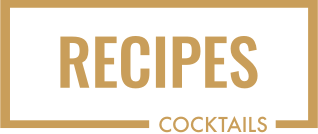
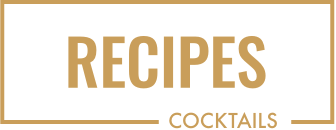
Polish forms design

Changed region(s): [[0.1698, 0.2462, 0.8208, 0.7077], [0.0, 0.0, 1.0, 1.0]]

diff --git a/app/assets/stylesheets/components/_form.scss b/app/assets/stylesheets/components/_form.scss
@@ -20,3 +20,23 @@
 .control-label {
   font-weight: 300;
 }
+
+
+.form-control {
+  border: 1px solid #4A4A4A;
+  background-color: #131313;
+  padding: 20px;
+  border-radius: 5px;
+  transition: all 0.8s ease;
+  color: #9B9B9B;
+  &:hover, &:active, &:focus {
+    border: 1px solid #CA9F54;
+    color: white;
+    box-shadow: none;
+  }
+}
+
+.control-label {
+  margin-bottom: 12px;
+}
+

diff --git a/app/assets/stylesheets/layout/_navbar.scss b/app/assets/stylesheets/layout/_navbar.scss
@@ -42,9 +42,9 @@
 .navbar-wagon-link {
   color: #C99E5A;
   font-size: 14px;
+  transition: all 0.8s ease;
   &:hover {
-  color: #C99E5A;
-  opacity: 0.8;
+  color: #B08644;
   text-decoration: none;
   }
 }
@@ -130,3 +130,5 @@
   border-left: 1px solid #E6E6E6;
   border-top: 1px solid #E6E6E6;
 }
+
+

diff --git a/app/assets/stylesheets/components/_button.scss b/app/assets/stylesheets/components/_button.scss
@@ -16,8 +16,8 @@
   background-color: #C99E5A;
   border-radius: 100px;
   border: 1px solid #C99E5A;
-  transition: all 0.8 ease;
   margin-top: 30px;
+  transition: all 0.8 ease;
   &:hover {
     background-color: #B08644;
     border: 1px solid #B08644;

diff --git a/app/assets/stylesheets/components/_banner.scss b/app/assets/stylesheets/components/_banner.scss
@@ -2,7 +2,6 @@
   color: white;
   text-align: center;
   height: 92vh;
-  /* if you have a 70px navbar => height: calc(100vh - 70px); */
   background-size: cover !important;
   display: flex;
   align-items: center;

diff --git a/app/assets/stylesheets/pages/_show.scss b/app/assets/stylesheets/pages/_show.scss
@@ -3,6 +3,7 @@
   margin-bottom: 40px;
   width: 500px;
   height: 375px;
+  background-color: #171717;
 }
 
 .show  {
@@ -20,3 +21,4 @@
 .btns {
   margin: 55px;
 }
+

diff --git a/app/assets/stylesheets/pages/_home.scss b/app/assets/stylesheets/pages/_home.scss
@@ -4,7 +4,7 @@
  * ------------------------------------- */
  #recipe {
   margin: 0 auto;
-  width: 120px;
+  width: 150px;
   display: block;
  }
 

diff --git a/app/assets/stylesheets/pages/_new_cocktail.scss b/app/assets/stylesheets/pages/_new_cocktail.scss
@@ -1,0 +1,7 @@
+.attachinary_container li {
+  list-style: none;
+  margin: 20px 20px 30px -30px;
+  & img {
+    margin-right: 15px;
+  }
+}

diff --git a/app/assets/stylesheets/components/_cards.scss b/app/assets/stylesheets/components/_cards.scss
@@ -5,6 +5,7 @@
   color: white;
   position: relative;
   border-radius: 5px;
+  background-color: #171717;
 }
 
 .card a {

diff --git a/app/assets/stylesheets/pages/_index.scss b/app/assets/stylesheets/pages/_index.scss
@@ -1,2 +1,3 @@
 @import "home";
-@import "show"
+@import "show";
+@import "new_cocktail";
